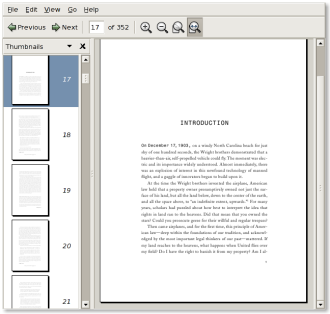
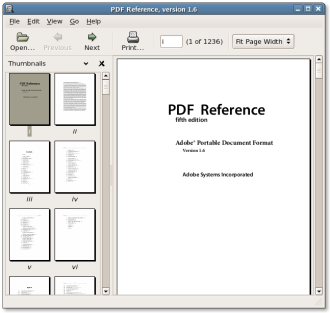
update screenshot

diff --git a/www.gnome.org/projects/evince/index.html b/www.gnome.org/projects/evince/index.html
@@ -24,7 +24,7 @@
  <div id="screenshot">
     <a href="screenshots/">
 	<img src="images/screenshot.png" width="330"
-	height="314" alt="[Evince Screenshot]" />
+	height="313" alt="[Evince Screenshot]" />
 	</a>
   </div>
 
@@ -32,9 +32,13 @@
 
     <h2>What is Evince?</h2>
 
-    <p>Evince is a document viewer for multiple document formats like pdf, postscript, and many others.  The goal of evince is to replace the multiple document viewers that exist on the GNOME Desktop, like ggv, gpdf, and xpdf with a single simple application.</p>
+    <p>Evince is a document viewer for multiple document formats.  It
+    currently supports pdf, postscript, djvu, tiff and dvi.  The goal of
+    evince is to replace the multiple document viewers that exist on the
+    GNOME Desktop with a single simple application.</p>
 
-    <p>More screenshots of Evince are available in the <a href="screenshots/">screenshots</a> section.</p>
+    <p>More screenshots of Evince are available in the <a
+    href="screenshots/">screenshots</a> section.</p>
 
   </div>
 
@@ -49,6 +53,9 @@
 	<ul class="left">
 		<li>PDF</li>
 		<li>Postscript</li>
+		<li>djvu</li>
+		<li>tiff</li>
+		<li>dvi</li>
 	</ul>
 
 	<p>
